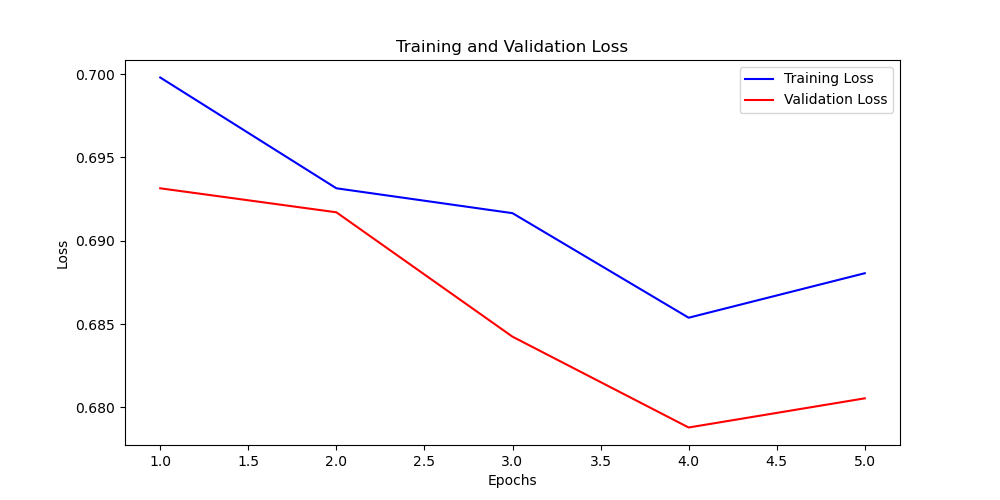
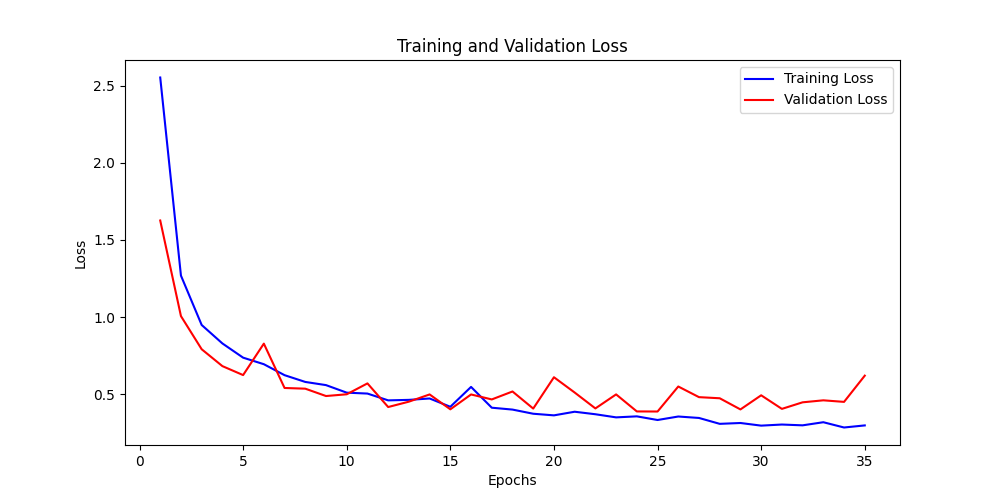
第一次模型训练更新

diff --git a/code/data_process.py b/code/data_process.py
@@ -5,13 +5,8 @@ import h5py
 from scipy.signal import stft
 import numpy as np
 
-dataset_base_dir = '../dataset'
 output_base_dir = '../output'
-# mat_files_paths = [
-#     'T11000_S1010.mat',
-#     'T10011_S0110.mat'
-# ]
-mat_files_paths = '../dataset/*.mat'
+mat_files_paths = '../../dataset/*.mat'
 mat_files_paths = glob.glob(mat_files_paths)
 # STFT parameters
 modu_snr_size = 30000  # Samples per slice
@@ -73,6 +68,6 @@ for file_index,mat_file_path in enumerate(mat_files_paths):
         with h5py.File(stft_output_filename, 'w') as stft_fw:
             stft_fw.create_dataset('STFT Magnitude', data=Zxx_combined.astype(np.float32))
             stft_fw.attrs['label'] = label  # Save label as attribute
-        print(f'Saved STFT of slice {slice_idx} to {stft_output_filename}')
+        # print(f'Saved STFT of slice {slice_idx} to {stft_output_filename}')
 
 print("All files processed and STFT slices saved under respective 'stft' folders.")

diff --git a/code/CNN_train.py b/code/CNN_train.py
@@ -6,6 +6,21 @@ from myCNN import build_cnn_model
 from sklearn.preprocessing import LabelEncoder
 from keras.callbacks import CSVLogger, ModelCheckpoint, EarlyStopping
 import matplotlib.pyplot as plt
+import os
+import tensorflow as tf
+
+os.environ['XLA_FLAGS'] = '--xla_gpu_cuda_data_dir=/home/gaoning/cuda11.8'
+
+# GPU configuration
+gpus = tf.config.experimental.list_physical_devices('GPU')
+if gpus:
+    try:
+        for gpu in gpus:
+            tf.config.experimental.set_memory_growth(gpu, True)
+        logical_gpus = tf.config.experimental.list_logical_devices('GPU')
+        print(len(gpus), "Physical GPUs,", len(logical_gpus), "Logical GPUs")
+    except RuntimeError as e:
+        print(e)
 
 # 读取切片数据
 all_slices = []

diff --git a/README.md b/README.md
@@ -1,17 +1,22 @@
 # 华为杯网络安全创新大赛
-- 项目框架: 
-  - code： 代码
-  - dataset： 数据集目录
-  - output： 数据预处理后结果
-  - img： 图片
-  - log： 模型训练日志
-  - model： 训练的模型
+## 1.项目框架
+- code： 代码
+- dataset： 数据集目录
+- output： 数据预处理后结果
+- img： 图片
+- log： 模型训练日志
+- model： 训练的模型
 
-- 项目流程
+## 2.项目流程
   1. 数据预处理（切片、STFT）
   2. 神经网络训练（CNN)
 
-- 代码解释
+## 3.代码解释
   - data_process: 数据预处理
   - myCNN：CNN模型构建
   - CNN_train： CNN模型训练
+
+## 4.训练结果记录
+### （1）2024.7.13 CNN模型训练的LOSS值变化图
+  在第25个epoch时达到最优，准确率为0.89375
+  <img src="./img/cnn.png" alt="图片找不到">
